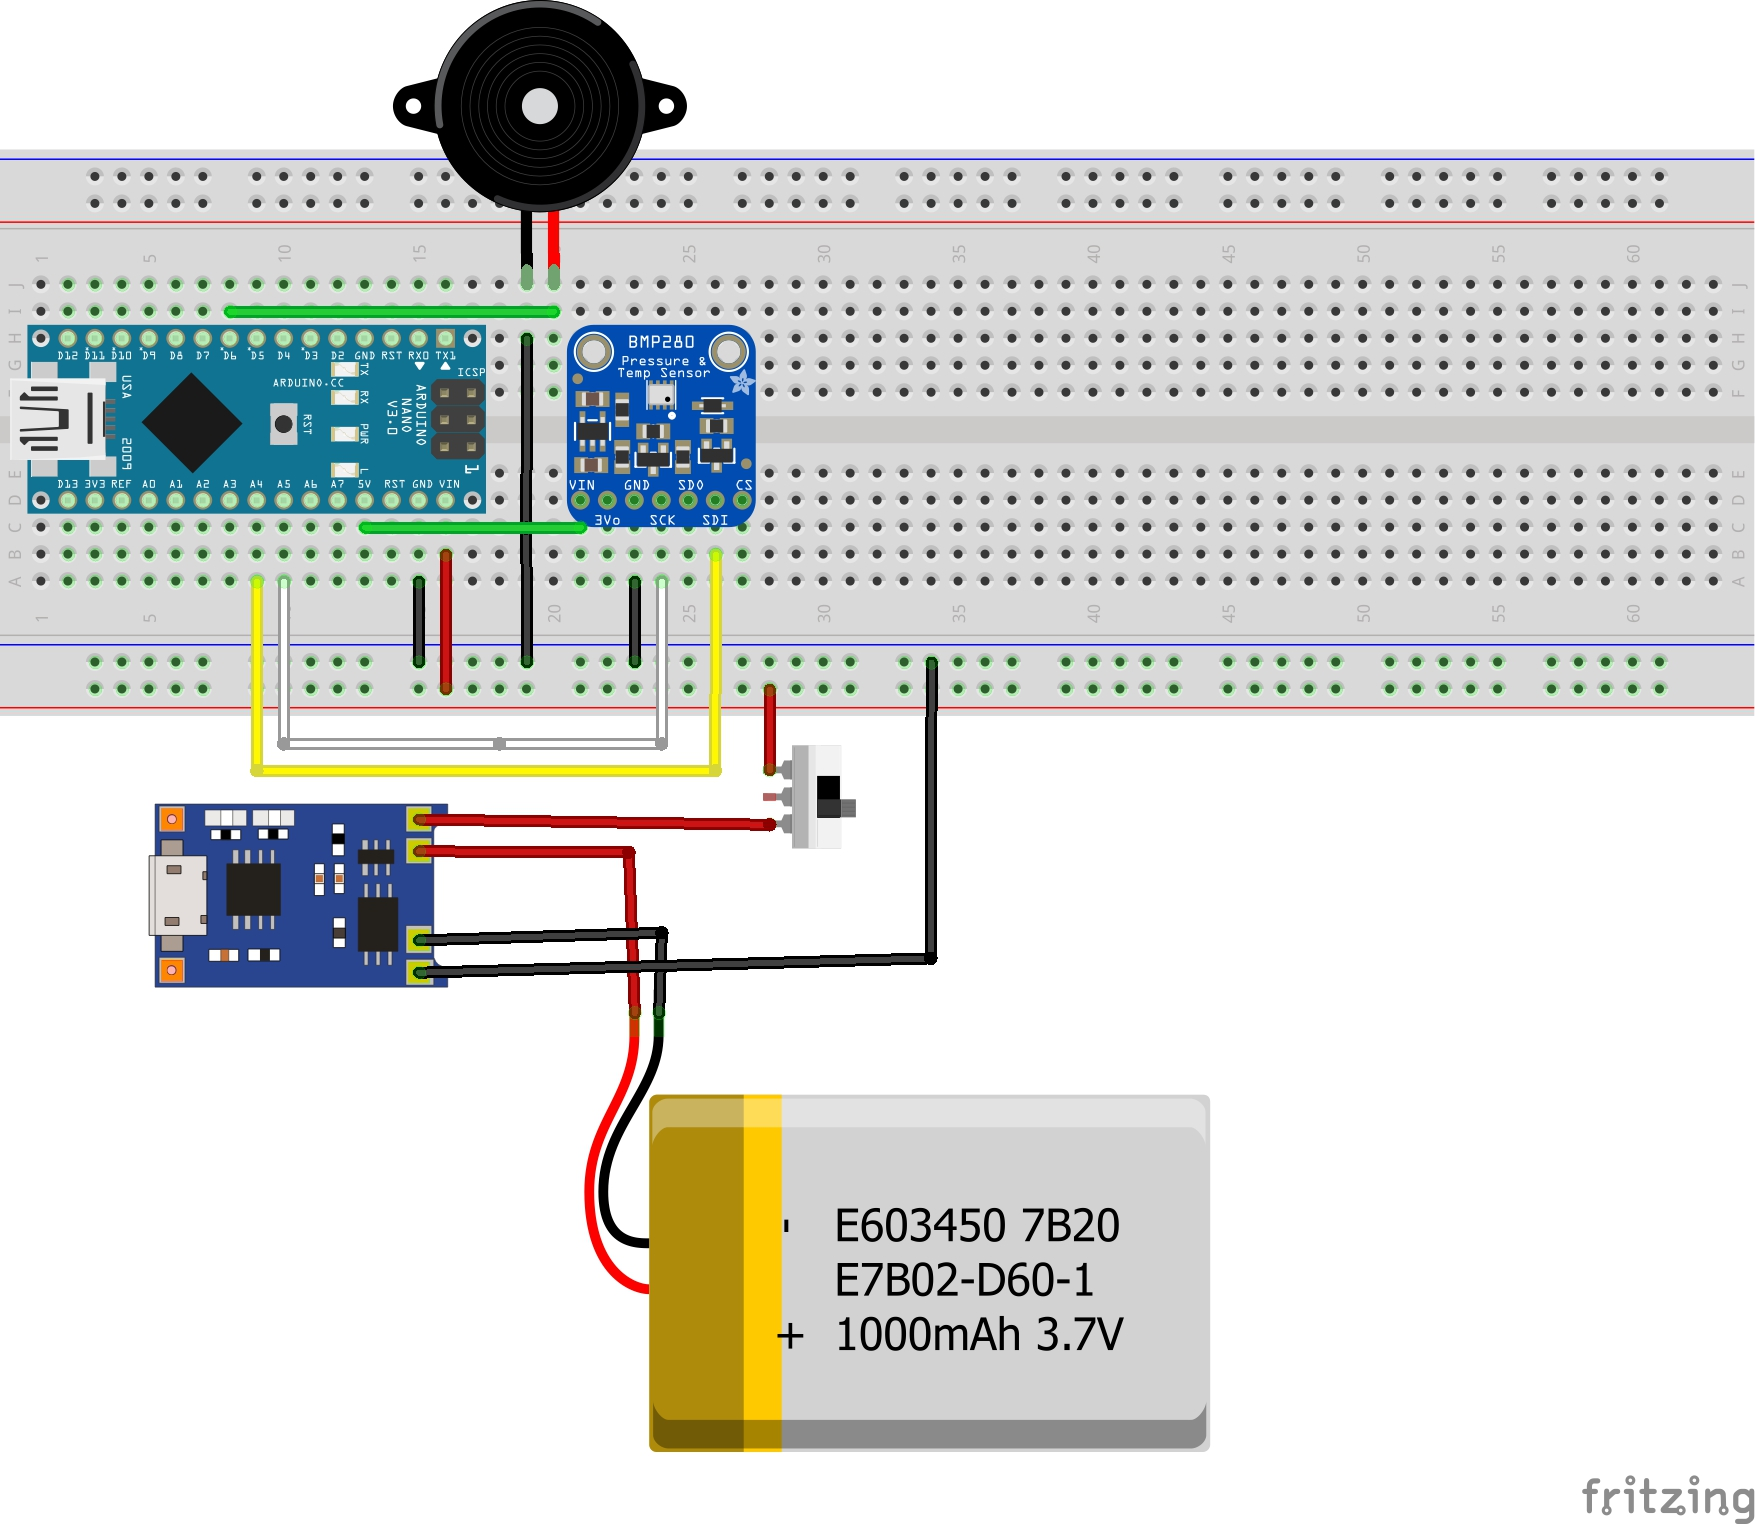
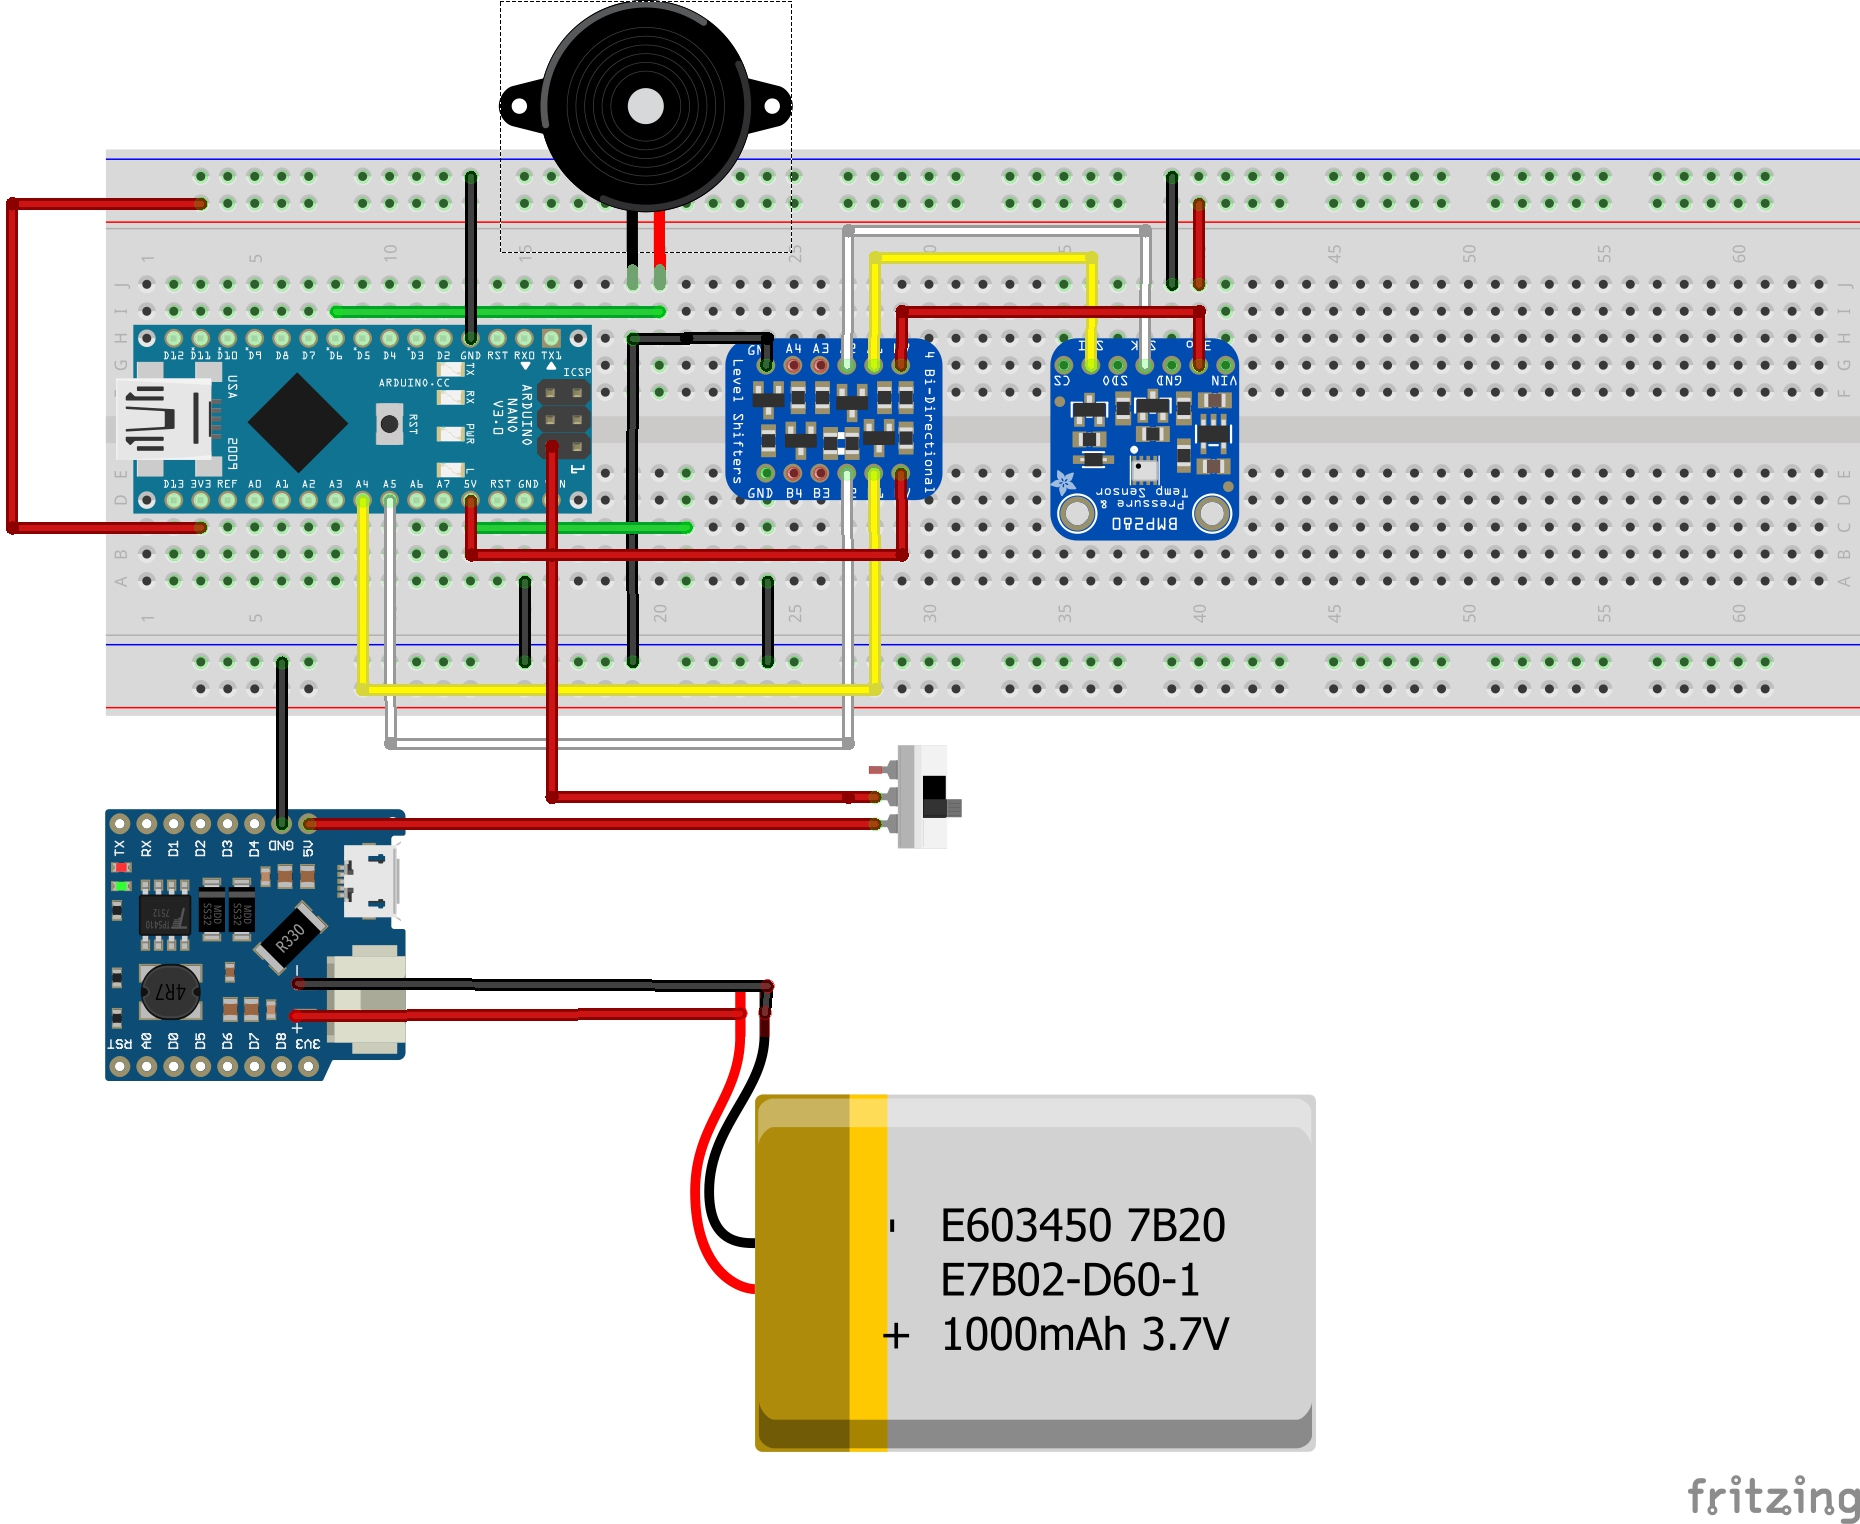
Update Readme and schematics

Changed region(s): [[0.0, 0.0, 0.9846, 0.956], [0.7692, 0.3084, 0.9846, 0.4009], [0.8923, 0.956, 1.0, 1.0]]

diff --git a/README.md b/README.md
@@ -14,15 +14,12 @@ Mechanical fixation will be realized using action cam standard allowing tones of
 * Arduino Nano Atmega328 *[4.33€]*
 * Piezo Buzzer passive *[2.49€]*
 * BMP280 sensor *[2.66€]*
-* Batterie Shield *[3.49€]*
+* Batterie Shield *[2.99€]*
 * Battery *[12.23€]*
 * Switch On/Off *[0.28€]*
+* I2c DC - DC adapter *[0.80€]*
 
-Total Price **25.48€**
-
-Debug only components
-* LCD 16*2 *[3.18€]*
-* Breadboard and cables *[8€]*
+Total Price **25.78€**
 
 -----------------------------------------------------------------------
 
@@ -56,9 +53,9 @@ Debug only components
 
 -----------------------------------------------------------------------
 
-## Debug mode and callibration mode
+## Callibration mode
 
-Software allows 3 debug and callibration modes
+Software allows debug and callibration modes
 
 ### Serial mode
 
@@ -66,32 +63,11 @@ Using USB serial console to print information. Buzzers are disabled quiet mode.
 
 Uncomment ```#define DEBUG 1``` to activate.
 
-### Display mode
-
-Using arduino LCD to display information
-Temperature and vertical speed in m/s.
-Up or down movement detection.
-
-Uncomment ```#define DISPLAY 1``` to activate.
-
 ### Sound setup
 
 In order to test and found best suitable sound you can use these mode and serial debug link to test buzzer sound.
 
-Uncomment ```#define TONE_SETUP 1``` to activate.
-
------------------------------------------------------------------------
-
-## Electronic
-
-**Debug Breadboard**
-![circuit](./schematic/display.png)
-
-**Debug Schematic**
-![schematic](./schematic/schematic_display.jpg)
-
-**Debug Picture**
-![proto](./schematic/proto1.png)
+Uncomment ```#define SOUND_TEST 1``` to activate.
 
 -----------------------------------------------------------------------
 
